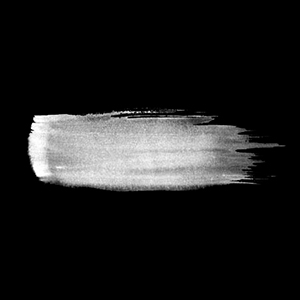
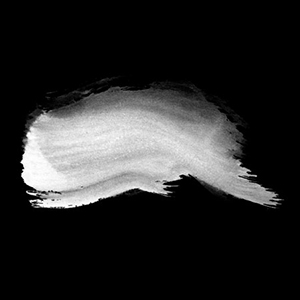
Made a lot of progress with the genetic algorithm for painting.

Changed region(s): [[0.06, 0.27, 0.96, 0.72], [0.33, 0.24, 0.36, 0.27]]

diff --git a/VB_Classes/Python/GeneticDrawing.py b/VB_Classes/Python/GeneticDrawing.py
@@ -48,9 +48,6 @@ class GeneticDrawing:
     def set_brush_range(self, ranges):
         self.brushesRange = ranges
         
-    def set_sampling_mask(self, img_path):
-        self.sampling_mask = cv2.cvtColor(cv2.imread(img_path),cv2.COLOR_BGR2GRAY)
-        
     def create_sampling_mask(self, s, stages):
         percent = 0.2
         start_stage = int(stages*percent)
@@ -153,7 +150,7 @@ class DNA:
             posX = int(random.randrange(0, self.bound[1]))
         return [posY, posX]
      
-    def initRandom(self, target_image, count, seed):
+    def initRandom(self, img_grey, count, seed):
         #initialize random DNA sequence
         for i in range(count):
             #random color
@@ -180,7 +177,7 @@ class DNA:
             #append data
             self.DNASeq.append([color, posY, posX, size, rotation, brushNumber])
         #calculate cache error and image
-        self.cached_error, self.cached_image = self.calcTotalError(target_image)
+        self.cached_error, self.cached_image = self.calcTotalError(img_grey)
         
     def get_cached_image(self):
         return self.cached_image
@@ -198,20 +195,10 @@ class DNA:
         totalDiff = cv2.add(diff1, diff2)
         totalDiff = np.sum(totalDiff)
         return (totalDiff, myImg)
-            
-    def draw(self):
-        myImg = self.drawAll(self.DNASeq)
-        return myImg
         
     def drawAll(self, DNASeq):
-        #set image to pre generated
-        if self.canvas is None: #if we do not have an image specified
-            inImg = np.zeros((self.bound[0], self.bound[1]), np.uint8)
-        else:
-            inImg = np.copy(self.canvas)
-        #apply padding
         p = self.padding
-        inImg = cv2.copyMakeBorder(inImg, p,p,p,p,cv2.BORDER_CONSTANT,value=[0,0,0])
+        inImg = cv2.copyMakeBorder(self.canvas, p,p,p,p,cv2.BORDER_CONSTANT,value=[0,0,0])
         #draw every DNA
         for i in range(len(DNASeq)):
             inImg = self.__drawDNA(DNASeq[i], inImg)
@@ -244,7 +231,6 @@ class DNA:
         myClr[:, :] = color
 
         #find ROI
-        inImg_rows, inImg_cols = inImg.shape
         y_min = int(posY - rows/2)
         y_max = int(posY + (rows - rows/2))
         x_min = int(posX - cols/2)
@@ -255,7 +241,6 @@ class DNA:
         background = inImg[y_min:y_max,x_min:x_max].astype(float) #get ROI
         # Normalize the alpha mask to keep intensity between 0 and 1
         alpha = brushImg.astype(float)/255.0
-        
 
         try:
             # Multiply the foreground with the alpha matte

diff --git a/VB_Classes/Python/PythonDebug.py b/VB_Classes/Python/PythonDebug.py
@@ -48,9 +48,6 @@ class GeneticDrawing:
     def set_brush_range(self, ranges):
         self.brushesRange = ranges
         
-    def set_sampling_mask(self, img_path):
-        self.sampling_mask = cv2.cvtColor(cv2.imread(img_path),cv2.COLOR_BGR2GRAY)
-        
     def create_sampling_mask(self, s, stages):
         percent = 0.2
         start_stage = int(stages*percent)
@@ -145,6 +142,8 @@ class DNA:
     
     def gen_new_positions(self):
         if self.sampling_mask is not None:
+            cv2.imshow("sampling_mask", self.sampling_mask.ConvertScaleAbs(255))
+            cv2.waitKey(1)
             pos = util_sample_from_img(self.sampling_mask)
             posY = pos[0][0]
             posX = pos[1][0]
@@ -198,20 +197,10 @@ class DNA:
         totalDiff = cv2.add(diff1, diff2)
         totalDiff = np.sum(totalDiff)
         return (totalDiff, myImg)
-            
-    def draw(self):
-        myImg = self.drawAll(self.DNASeq)
-        return myImg
         
     def drawAll(self, DNASeq):
-        #set image to pre generated
-        if self.canvas is None: #if we do not have an image specified
-            inImg = np.zeros((self.bound[0], self.bound[1]), np.uint8)
-        else:
-            inImg = np.copy(self.canvas)
-        #apply padding
         p = self.padding
-        inImg = cv2.copyMakeBorder(inImg, p,p,p,p,cv2.BORDER_CONSTANT,value=[0,0,0])
+        inImg = cv2.copyMakeBorder(self.canvas, p,p,p,p,cv2.BORDER_CONSTANT,value=[0,0,0])
         #draw every DNA
         for i in range(len(DNASeq)):
             inImg = self.__drawDNA(DNASeq[i], inImg)
@@ -244,7 +233,6 @@ class DNA:
         myClr[:, :] = color
 
         #find ROI
-        inImg_rows, inImg_cols = inImg.shape
         y_min = int(posY - rows/2)
         y_max = int(posY + (rows - rows/2))
         x_min = int(posX - cols/2)
@@ -343,7 +331,7 @@ class DNA:
 if __name__ == '__main__':
     #load the example image and set the generator for 100 stages with 20 generations each
     gen = GeneticDrawing('../../Data/GeneticDrawingExample.jpg', seed=time.time())
-    out = gen.generate(100, 20)
+    out = gen.generate(40, 20)
     
     #load a custom mask and set a smaller brush size for finer details
     #gen.sampling_mask = cv2.cvtColor(cv2.imread("../../Data/GeneticDrawingMask.jpg"), cv2.COLOR_BGR2GRAY)
